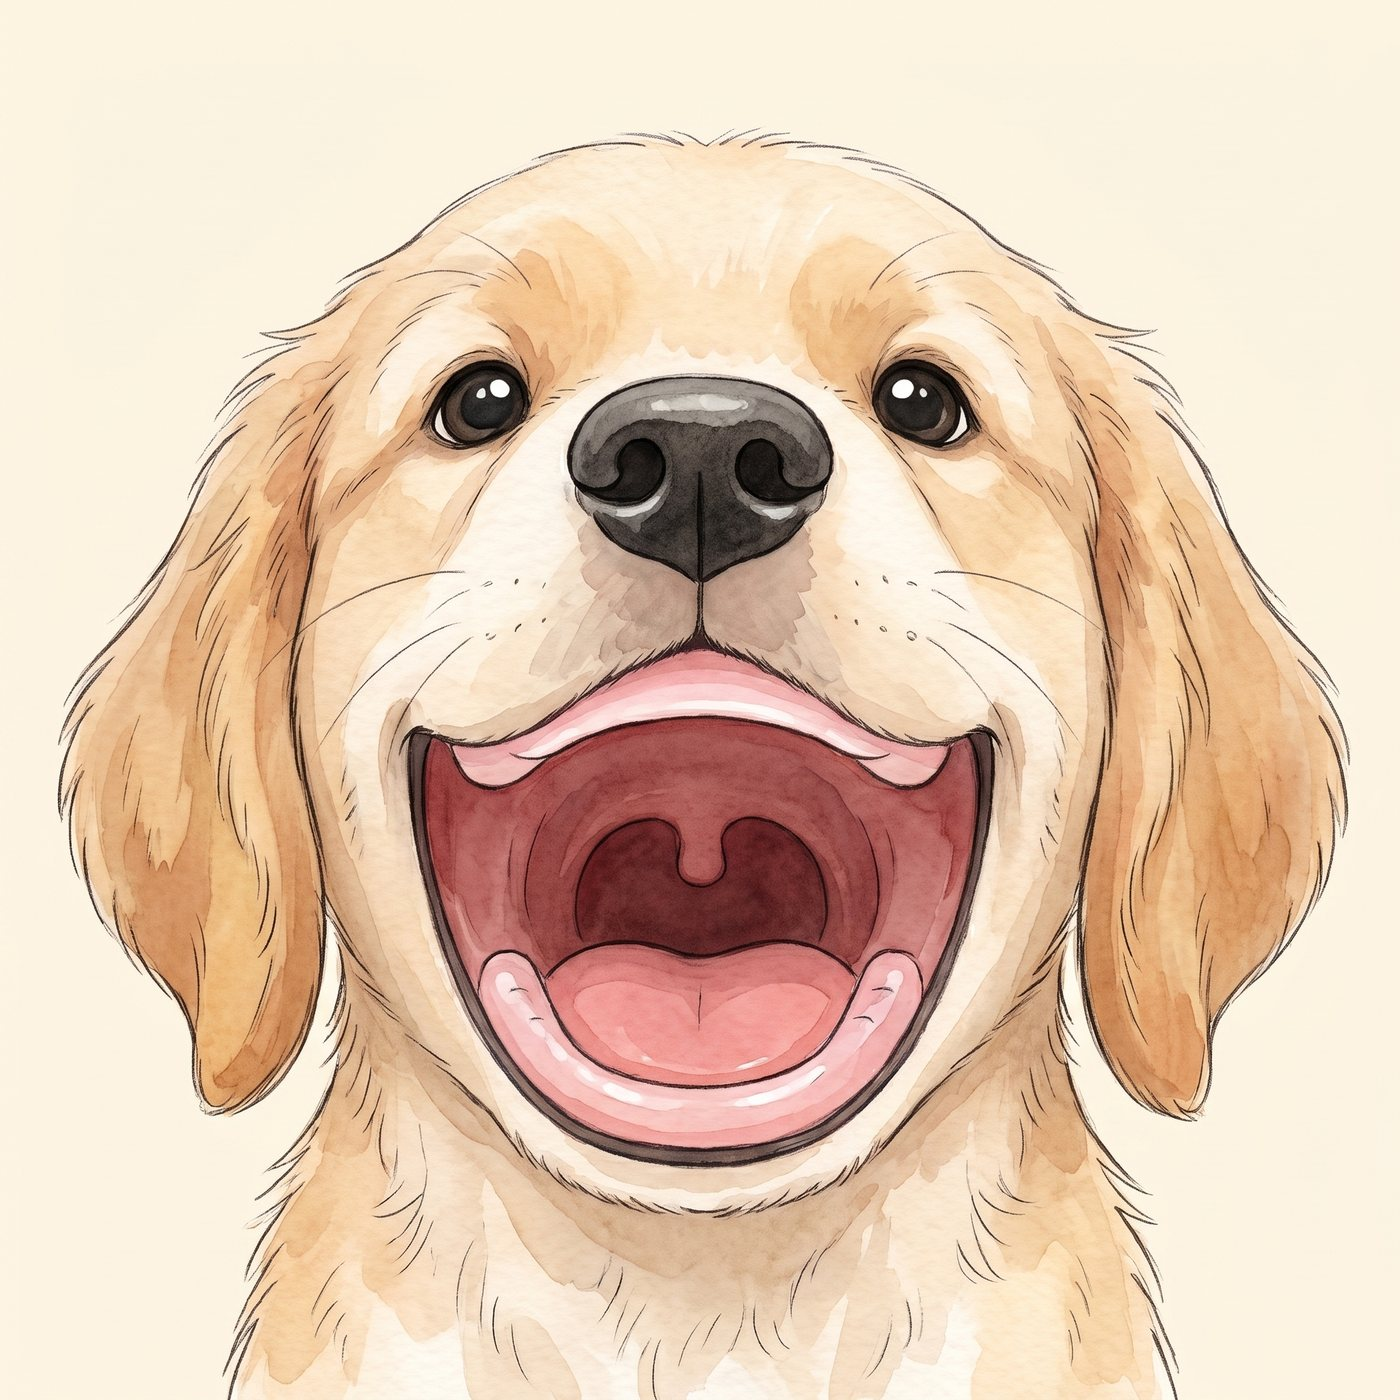
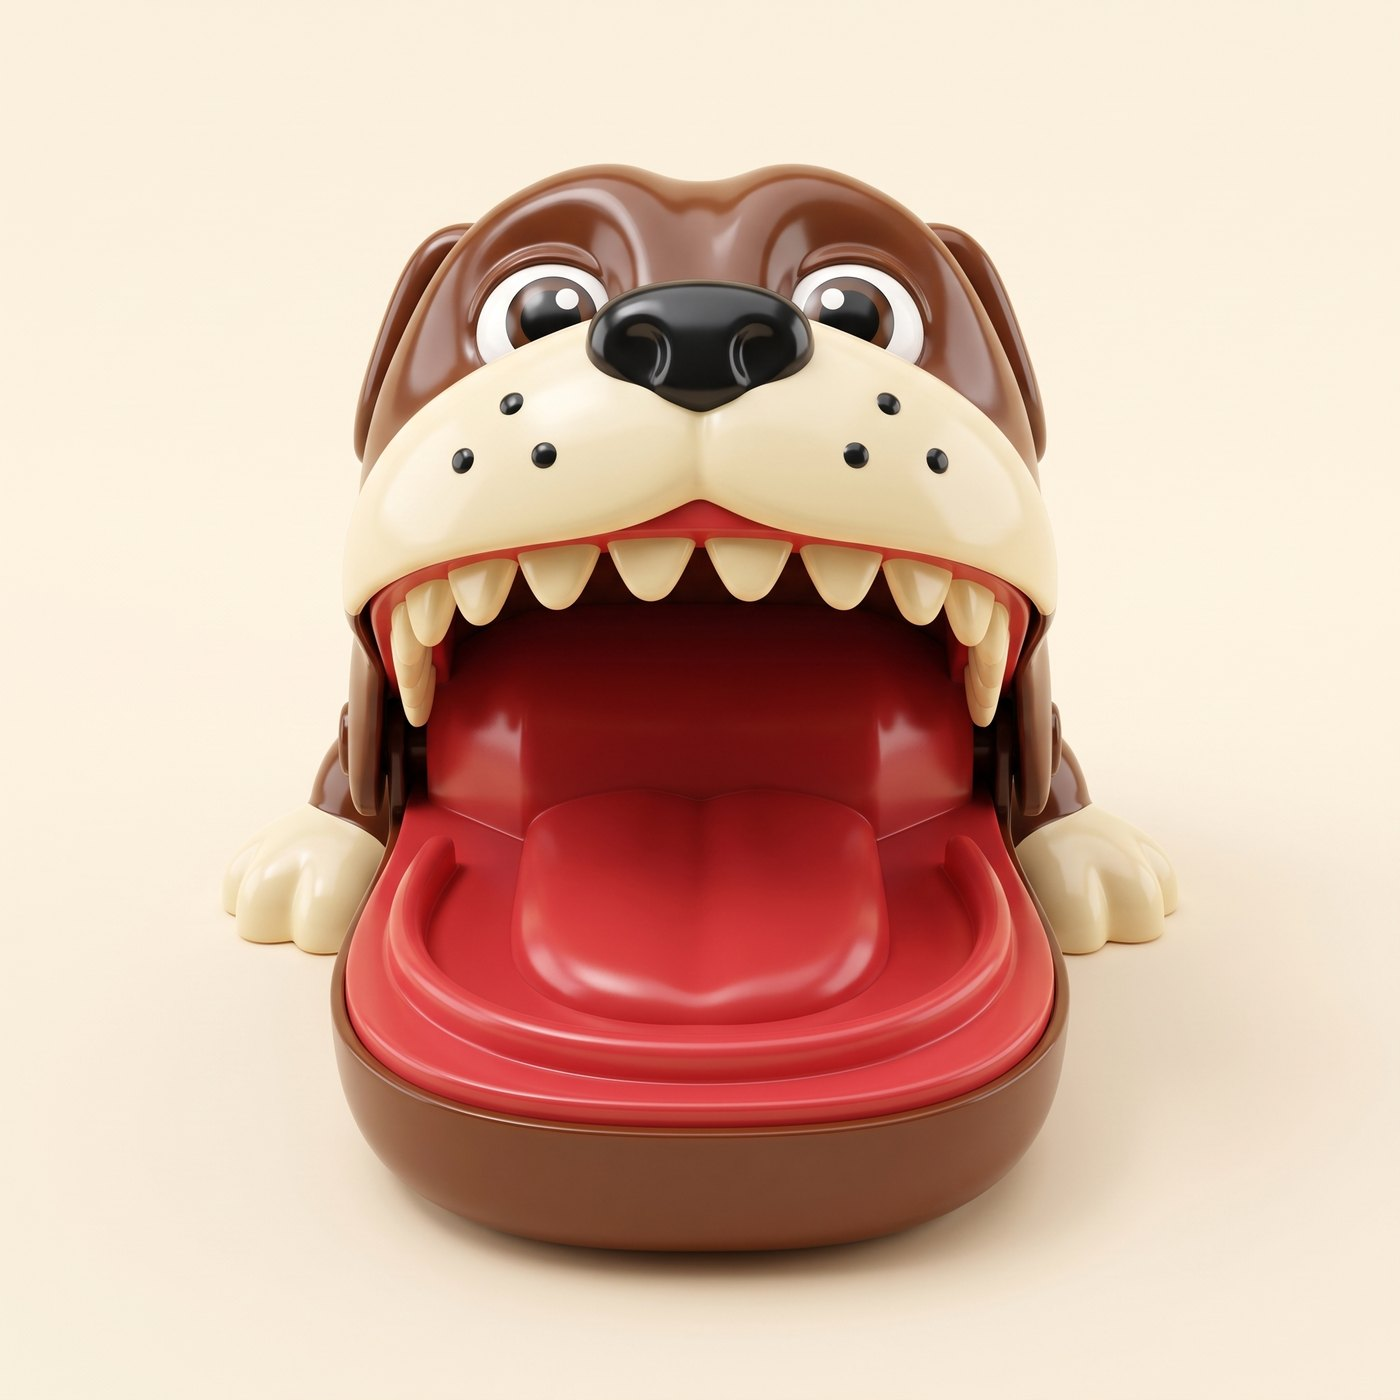
Perrito: ahora es el perro de juguete de plastico
Como el juguete real: bulldog de plastico brillante pintado con Gemini, con
los 15 dientes en la bandeja roja de abajo, parados sobre el borde en U con
perspectiva (los de adelante mas grandes). El diente es una pieza recortada
del mismo render, se hunde hacia abajo al apretarlo, y cuenta el diente mas
cercano al dedo. Tapa nueva con el perro de juguete.

diff --git a/perro/index.html b/perro/index.html
@@ -6,22 +6,23 @@
 <meta name="viewport" content="width=device-width, initial-scale=1, viewport-fit=cover, user-scalable=no">
 <meta name="theme-color" content="#2a1a0f">
 <link rel="shortcut icon" type="image/png" href="../favicon.ico">
-<!-- Perrito y diente pintados con Nano Banana (Gemini) a partir de textos de Claude;
+<!-- Perrito de juguete y diente pintados con Nano Banana (Gemini) a partir de textos de Claude;
      animación con GSAP 3.12.5 (cerditos/lib). -->
 <script src="../cerditos/lib/gsap.min.js"></script>
 <script src="../lib/despierto.js"></script>
 <style>
   :root{ --crema:#fff6e7; --ambar:#f2a567; --tinta:#3a2415 }
-  html,body{margin:0; height:100%; overflow:hidden; background:#fbf1de; font-family:system-ui,-apple-system,"Segoe UI",Roboto,sans-serif;
+  html,body{margin:0; height:100%; overflow:hidden; background:#f9eedb; font-family:system-ui,-apple-system,"Segoe UI",Roboto,sans-serif;
     -webkit-tap-highlight-color:transparent; -webkit-user-select:none; user-select:none; touch-action:none}
   #vista{position:fixed; inset:0}
   #escena{position:absolute; left:0; top:0; width:2048px; height:2048px; transform-origin:0 0}
   #escena img.cara{position:absolute; inset:0; width:100%; height:100%; pointer-events:none}
   #cerrado{opacity:0}
-  .diente{position:absolute; cursor:pointer}
+  .diente{position:absolute; pointer-events:none}
   .diente img{position:absolute; left:0; width:100%; pointer-events:none; filter:drop-shadow(0 3px 2px rgba(80,20,20,.35))}
   .diente.arriba img{top:0; transform:scaleY(-1)}
   .diente.abajo img{bottom:0}
+  .diente img{filter:drop-shadow(0 4px 3px rgba(70,10,10,.35))}
   .diente.apretado img{filter:brightness(.88) drop-shadow(0 1px 1px rgba(80,20,20,.3))}
   #turno{position:fixed; top:max(10px, env(safe-area-inset-top)); left:12px; z-index:3; display:flex; gap:8px; flex-wrap:wrap; max-width:calc(100% - 130px)}
   .jug{background:rgba(255,248,236,.92); color:var(--tinta); border-radius:30px; padding:6px 14px; font:bold 20px/1 Georgia,serif;
@@ -105,34 +106,44 @@ function pintarQuienes() {
 }
 
 /* ---------- los dientes ----------
-   En coordenadas del dibujo (2048 x 2048): 8 cuelgan de la encía de arriba y 7 se
-   paran en la de abajo, siguiendo la curva de la boca. */
-var ARRIBA = { desde: [690, 1088], hasta: [1375, 1088], centro: 1118, n: 8 };
-var ABAJO = { desde: [775, 1555], hasta: [1290, 1555], centro: 1625, n: 7 };
-var dientes = [], escena = $("#escena");
-function fila(f, lado) {
-  var paso = (f.hasta[0] - f.desde[0]) / f.n, ancho = paso * .96, alto = ancho * 1.1;
-  for (var i = 0; i < f.n; i++) {
-    var x = f.desde[0] + paso * (i + .5), t = (i + .5) / f.n;
-    var y = f.desde[1] + (f.centro - f.desde[1]) * 4 * t * (1 - t);   // la encía es curva
-    var d = document.createElement("div"); d.className = "diente " + lado;
+   Como en el juguete: los 15 están en la bandeja roja de abajo, parados sobre el
+   borde en forma de U (media elipse, en coordenadas del dibujo de 2048 x 2048).
+   Con perspectiva: los de adelante más grandes, los del fondo más chicos. */
+var U = { cx: 1035, cy: 1240, rx: 438, ry: 268, desde: 177, hasta: 3 }, CANTIDAD = 15;
+var dientes = [], escena = $("#escena"), PASO = 0;
+(function () {
+  var muestras = [], total = 0, ant = null;
+  for (var k = 0; k <= 600; k++) {
+    var ang = (U.desde + (U.hasta - U.desde) * k / 600) * Math.PI / 180;
+    var p = [U.cx + U.rx * Math.cos(ang), U.cy + U.ry * Math.sin(ang)];
+    var f = .62 + .38 * Math.max(0, Math.sin(ang));          // 1 adelante, .62 al fondo
+    if (ant) total += Math.hypot(p[0] - ant.p[0], p[1] - ant.p[1]) / f;
+    muestras.push({ p: p, l: total, f: f }); ant = { p: p };
+  }
+  var cada = total / CANTIDAD;
+  PASO = 0;
+  for (var i = 0; i < CANTIDAD; i++) {
+    var meta = cada * (i + .5), m = muestras.find(function (q) { return q.l >= meta; }) || muestras[muestras.length - 1];
+    var ancho = cada * m.f * .97, alto = ancho * 1.5;   // altos, como las piezas del juguete
+    PASO = Math.max(PASO, cada * m.f);
+    var x = m.p[0], y = m.p[1] + 10;
+    var d = document.createElement("div"); d.className = "diente abajo";
     d.innerHTML = '<img src="img/diente.webp" alt="">';
     d.style.left = (x - ancho / 2) + "px"; d.style.width = ancho + "px";
-    // la zona para tocar es más alta que el diente, para dedos chiquitos
-    if (lado === "arriba") { d.style.top = y + "px"; d.style.height = alto * 1.5 + "px"; }
-    else { d.style.top = (y - alto * 1.5) + "px"; d.style.height = alto * 1.5 + "px"; }
+    d.style.top = (y - alto) + "px"; d.style.height = alto + "px";
+    d.style.zIndex = Math.round(y);          // los de adelante tapan a los de atrás
     d.querySelector("img").style.height = alto + "px";
     escena.appendChild(d);
-    dientes.push({ el: d, img: d.querySelector("img"), lado: lado, apretado: false });
+    dientes.push({ el: d, img: d.querySelector("img"), lado: "abajo", apretado: false, x: x, y: y - alto / 2 });
   }
-}
-fila(ARRIBA, "arriba"); fila(ABAJO, "abajo");
+})();
 
 /* ---------- cámara: la boca bien grande en el centro ---------- */
 function acomodar() {
   var vw = innerWidth, vh = innerHeight, arriba = 70;
-  var s = Math.min(vw * .98 / 900, (vh - arriba) * .96 / 700);
-  var cx = 1032, cy = 1370;
+  // la bandeja con los dientes bien grande; en vertical entra todo el juguete
+  var s = Math.min(vw * .99 / 930, (vh - arriba) * .97 / 720);
+  var cx = 1030, cy = vw < vh ? 1120 : 1280;
   var x = vw / 2 - cx * s, y = arriba + (vh - arriba) / 2 - cy * s;
   // que la cara cubra toda la pantalla (sin franjas vacías)
   if (2048 * s >= vh) y = Math.min(0, Math.max(vh - 2048 * s, y));
@@ -190,7 +201,7 @@ function pintarTurno() {
 }
 function abrir() {
   gsap.set("#cerrado", { opacity: 0 }); gsap.set("#abierto", { opacity: 1 });
-  dientes.forEach(function (d) { d.apretado = false; d.el.classList.remove("apretado"); gsap.set(d.img, { y: 0, opacity: 1 }); });
+  dientes.forEach(function (d) { d.apretado = false; d.el.classList.remove("apretado"); gsap.set(d.img, { y: 0, scaleY: 1, opacity: 1 }); });
 }
 function empezar() {
   audioCtx();
@@ -208,7 +219,7 @@ function apretar(i) {
   d.apretado = true; d.el.classList.add("apretado");
   sfx.clic();
   // el diente se hunde en la encía
-  gsap.to(d.img, { y: d.lado === "arriba" ? -d.img.offsetHeight * .35 : d.img.offsetHeight * .35, duration: .15, ease: "power2.out" });
+  gsap.to(d.img, { y: d.img.offsetHeight * .4, scaleY: .85, transformOrigin: "50% 100%", duration: .15, ease: "power2.out" });
   if (i === malo) { nam(); return; }
   var j = enJuego[turno];
   puntos[j.id]++;
@@ -270,7 +281,13 @@ function festejo() {
         opacity: 0, duration: 2 + Math.random(), ease: "power2.out", onComplete: (function (el) { return function () { el.remove(); }; })(e) });
   }
 }
-dientes.forEach(function (d, i) { d.el.addEventListener("pointerdown", function () { apretar(i); }); });
+// Toca el diente sin apretar más cercano al dedo (para dedos chiquitos, no hace falta acertarle justo)
+$("#vista").addEventListener("pointerdown", function (ev) {
+  var r = escena.getBoundingClientRect(), s = r.width / 2048;
+  var x = (ev.clientX - r.left) / s, y = (ev.clientY - r.top) / s, mejor = -1, dist = PASO * 1.3;
+  dientes.forEach(function (d, i) { var dd = Math.hypot(d.x - x, d.y - y); if (!d.apretado && dd < dist) { dist = dd; mejor = i; } });
+  if (mejor >= 0) apretar(mejor);
+});
 $("#jugar").addEventListener("click", empezar);
 $("#otraVez").addEventListener("click", function () { $("#final").classList.add("fuera"); $("#inicio").classList.remove("fuera"); abrir(); pintarQuienes(); });
 $("#sonido").addEventListener("click", function () {
